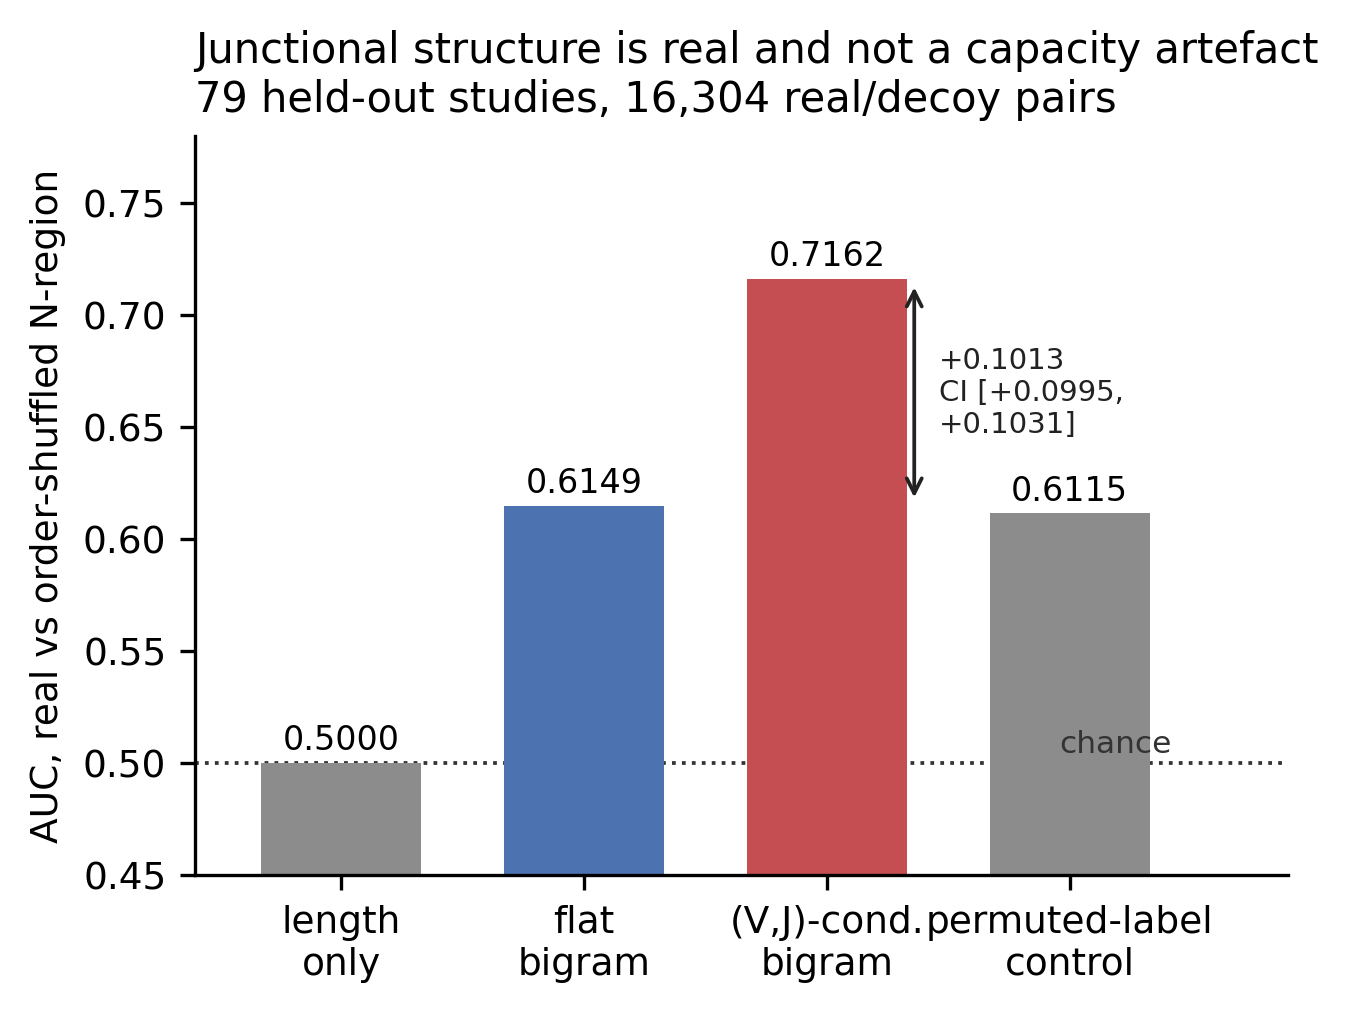
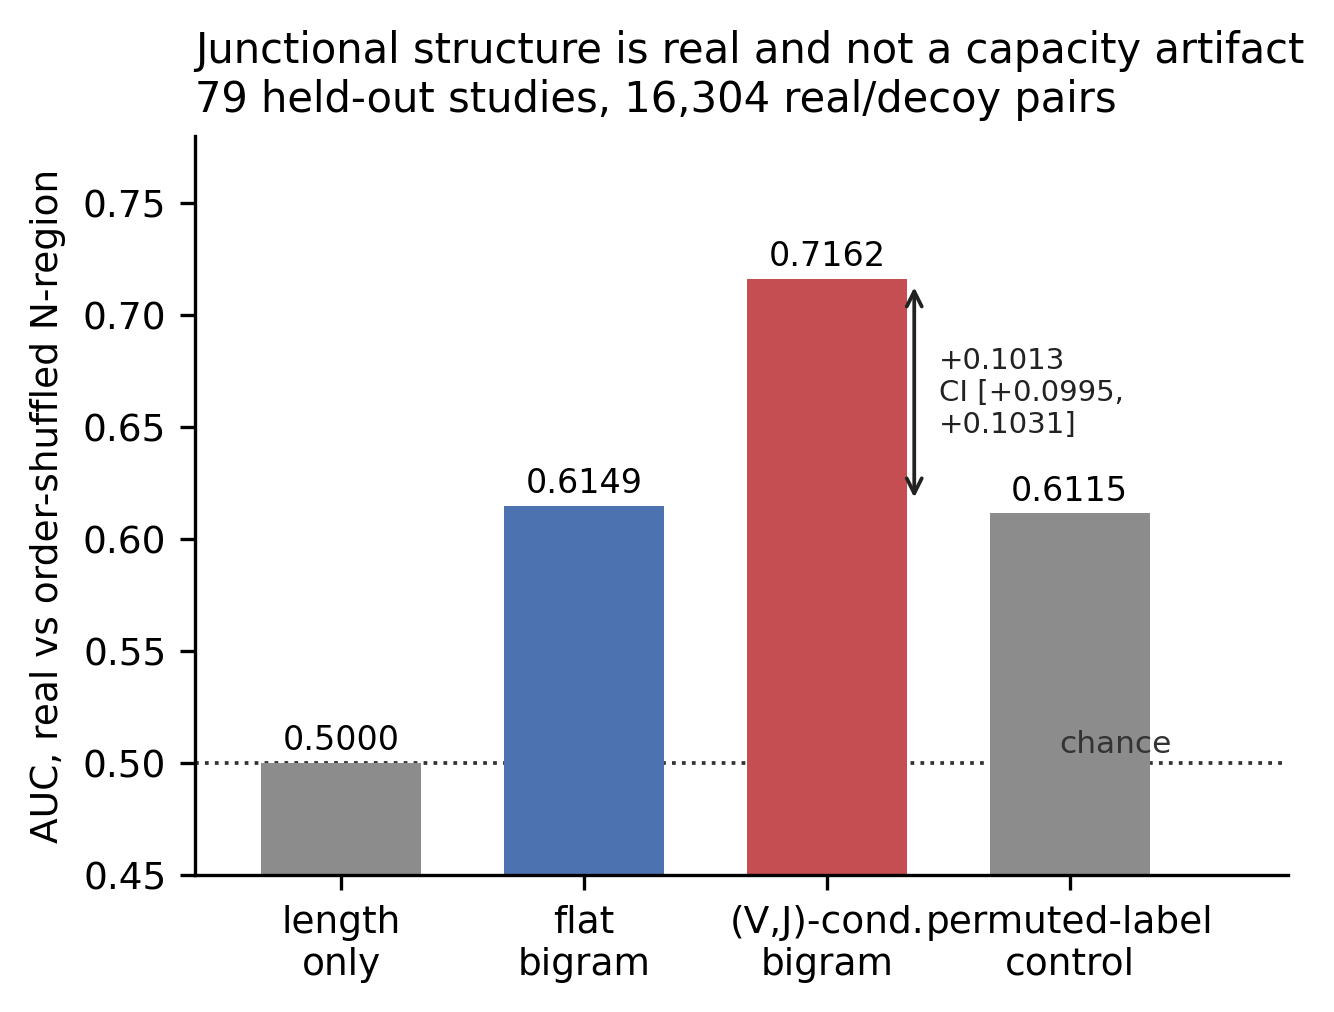
Standardize spelling; add plain-language guide to the study and figures
Spelling was mixed across the repo: artefact/artifact, characteris-/characteriz-,
analyse/analyze, plus British standardis-/normalis- forms in code comments. One
instance was baked into Figure 2's rendered title ("capacity artefact"), where a
proof-stage find-and-replace could not have reached it. Standardized to US forms
throughout our own files (vdjdb-db and the IMMREP23 README are external and left
alone) and regenerated all figures. Note the rewrite touched a local variable in
goi_core.auc (labelled -> labeled); all scripts recompile and the AUC sanity
check is unchanged.

Adds paper/plain-language-guide.md: a non-technical walkthrough explaining the
problem, the linguistic hypothesis, what each of the six figures shows, what was
concluded, and why a negative result is worth publishing. Written for a reader
with no immunology or machine-learning background — the word/prefix-suffix
analogy carries the receptor structure, STRESSED/DESSERTS carries the shuffling
control, and each figure gets a section explaining both what it shows and why it
matters. Includes the three counting and control errors we made and corrected,
since those are the transferable lessons.

diff --git a/goi_core.py b/goi_core.py
@@ -102,7 +102,7 @@ def dedup_clonotypes(rows):
     Collapse to unique (cdr3, v, j, epitope). VDJdb carries the same clonotype
     from multiple studies; counting rows inflates every downstream frequency.
     The row multiplicity is kept as 'n_rows' so it can be used as a weight,
-    but analyses should default to one vote per clonotype. 'studies' retains
+    but analyzes should default to one vote per clonotype. 'studies' retains
     the set of contributing studies, which is what makes cross-study
     replication testing possible.
     """
@@ -342,19 +342,19 @@ def benjamini_hochberg(pvals):
 
 def auc(scores_pos, scores_neg):
     """Mann-Whitney U / ROC AUC with tie handling."""
-    labelled = [(s, 1) for s in scores_pos] + [(s, 0) for s in scores_neg]
-    labelled.sort(key=lambda t: t[0])
+    labeled = [(s, 1) for s in scores_pos] + [(s, 0) for s in scores_neg]
+    labeled.sort(key=lambda t: t[0])
     ranks = {}
     i = 0
-    n = len(labelled)
+    n = len(labeled)
     rank_sum_pos = 0.0
     while i < n:
         j = i
-        while j + 1 < n and labelled[j + 1][0] == labelled[i][0]:
+        while j + 1 < n and labeled[j + 1][0] == labeled[i][0]:
             j += 1
         avg_rank = (i + j) / 2.0 + 1.0
         for k in range(i, j + 1):
-            if labelled[k][1] == 1:
+            if labeled[k][1] == 1:
                 rank_sum_pos += avg_rank
         i = j + 1
     n_pos, n_neg = len(scores_pos), len(scores_neg)

diff --git a/benchmark_immrep23.py b/benchmark_immrep23.py
@@ -11,8 +11,8 @@ Data (from https://github.com/justin-barton/IMMREP23):
   solutions.csv           official test set WITH labels and public/private flag
 
 Official metric: Macro AUC0.1 — partial ROC AUC to FPR 0.1 with McClish
-standardisation, computed per peptide, then averaged. Implemented via
-sklearn roc_auc_score(max_fpr=0.1), which is McClish-standardised.
+standardization, computed per peptide, then averaged. Implemented via
+sklearn roc_auc_score(max_fpr=0.1), which is McClish-standardized.
 
 Negative generation follows the challenge protocol: TCRs are swapped between
 peptides whose Levenshtein distance exceeds 3, at 5 negatives per positive.
@@ -78,7 +78,7 @@ def levenshtein(a, b):
 
 
 def norm_sim(a, b):
-    """Length-normalised similarity in [0,1] from edit distance."""
+    """Length-normalized similarity in [0,1] from edit distance."""
     if not a or not b:
         return 0.0
     return 1.0 - levenshtein(a, b) / max(len(a), len(b))

diff --git a/make_figures.py b/make_figures.py
@@ -143,7 +143,7 @@ def fig2_grammaticality():
     ax.text(2.46, 0.6655, '+0.1013\nCI [+0.0995,\n+0.1031]', fontsize=7,
             ha='left', va='center', color='#222222')
     ax.set_xlim(-0.6, 3.9)
-    ax.set_title('Junctional structure is real and not a capacity artefact\n'
+    ax.set_title('Junctional structure is real and not a capacity artifact\n'
                  '79 held-out studies, 16,304 real/decoy pairs', loc='left')
     save(fig, 'fig2_grammaticality.png')
 

diff --git a/phase3_unseen_epitope.py b/phase3_unseen_epitope.py
@@ -385,7 +385,7 @@ def main():
     print(f"\n   morpheme - kmer3 across seeds: {m_d:+.4f} +/- {sd_d:.4f}")
     print(f"   pooled per-epitope bootstrap 95% CI: [{lo:+.4f}, {hi:+.4f}]")
     n_pos = sum(1 for d in deltas if d > 0)
-    print(f"   seeds favouring morpheme: {n_pos}/{len(deltas)}")
+    print(f"   seeds favoring morpheme: {n_pos}/{len(deltas)}")
 
     rule('-')
     print("VERDICT")

diff --git a/paper/plain-language-guide.md b/paper/plain-language-guide.md
@@ -1,0 +1,226 @@
+# The Grammar of Immunity — Plain Language Guide
+
+A non-technical walkthrough of what this study asked, what we did, what the six
+figures show, and what we actually found.
+
+---
+
+## The problem in one paragraph
+
+Your immune system has to recognize germs it has never met — including ones that
+don't exist yet. It solves this by manufacturing billions of different detectors
+called **T-cell receptors**, each one shaped to grab a specific fragment of a
+germ. If we could look at a receptor and predict *which* germ it grabs, we could
+read someone's immune history from a blood sample, design vaccines faster, and
+tell which cancer patients will respond to which treatment. Nobody can do this
+reliably. Computer models get roughly nowhere when the target germ is one they
+weren't trained on — which is exactly the situation in a new pandemic.
+
+## The idea we tested
+
+Receptors are built the way words are built.
+
+Your body assembles each receptor from a small inventory of interchangeable
+parts: a beginning piece, an end piece, and a randomly generated middle that
+glues them together. That's very close to how words work in a language — a
+prefix, a root, a suffix. English does this too: *un-* + *happy* + *-ness*.
+
+A Nobel Prize winner named Niels Jerne noticed this in 1984 and titled his Nobel
+lecture "The Generative Grammar of the Immune System." He proposed the idea but
+never worked it out. In 2024 a team of linguists and immunologists revisited it
+and argued that today's AI models fail at this problem because they chop receptor
+sequences into meaningless chunks, ignoring the natural seams where the parts
+join. They said someone should build a model that respects those seams. They
+didn't build it.
+
+**This study built it and tested it.**
+
+The specific bet: if you cut receptor sequences at their natural joints — the way
+you'd split *unhappiness* into *un-happy-ness* rather than into *unh-app-ine-ss*
+— the model should learn something general about how receptors work, and
+therefore handle germs it has never seen.
+
+---
+
+## What the pictures show
+
+### Figure 1 — What "cutting at the seams" means
+
+Five real receptor sequences, each shown as a row of letters (letters are amino
+acids, the building blocks of proteins). Each row is colored in three parts:
+
+- **Blue** — the beginning piece, inherited from your genes. Nearly identical in
+  everyone.
+- **Red** — the random middle. This is where each person's receptors differ, and
+  it's the part that mostly decides what the receptor grabs.
+- **Green** — the end piece, also inherited.
+
+The point: what looks like one long meaningless string is really three
+meaningfully different regions. Most computer models never make this distinction.
+This figure is what our method does before anything else happens.
+
+### Figure 2 — Yes, there is real structure in the random middle
+
+We asked a simple question: is the "random" middle actually random?
+
+Test: take a real middle region and shuffle its letters, like scrambling
+*STRESSED* into *DESSERTS*. Same letters, same length, different order. Then see
+if a model can tell the real one from the scrambled one. If it can, the order
+carries information — the middles follow rules.
+
+Four bars:
+
+- **Gray, 0.50** — a deliberately useless model that only looks at length. It
+  scores exactly 50%, i.e. pure coin-flip. This is a check that our test is
+  honest: since shuffling doesn't change length, this model *must* fail, and it
+  does, exactly.
+- **Blue, 0.61** — a model that looks at letter order. Better than a coin flip.
+  So the middles are not random.
+- **Red, 0.72** — the same model, but told which inherited beginning and end
+  pieces the receptor uses. Considerably better. Context matters.
+- **Gray, 0.61** — the critical control. Same model, same complexity, but we
+  *lied* to it about which pieces the receptor uses. Its advantage vanishes.
+
+That last bar matters more than it looks. Bigger models often score better just
+by being bigger. By feeding it scrambled information and watching the gain
+disappear, we proved the improvement comes from real biology, not from the model
+being fancier.
+
+**Verdict: the linguistic structure is real and measurable.** So far, the idea is
+working.
+
+### Figure 3 — And it doesn't help at all where it counts
+
+This is the important figure, and it's where the idea fails.
+
+We tested on an official public competition dataset, using the competition's own
+scoring rules, so we couldn't grade our own homework. The test contains 20 germ
+fragments. Thirteen appear in the training data; **seven do not**.
+
+Each method gets two bars: **solid** for the familiar targets, **striped** for
+the unfamiliar ones.
+
+Look at the solid bars — everything works reasonably. Look at the striped bars —
+every single one collapses onto the coin-flip line. Including ours. Including
+methods better than ours.
+
+Cutting at the natural seams helps for germs the model has already studied. For
+new germs, it buys nothing. And that's the only case anyone actually needs.
+
+There's a subtle detail: two of the methods score *exactly* 50% on the unfamiliar
+targets. That's not bad luck. Those methods work by looking up the most similar
+receptor they've seen before, so when a germ is genuinely new they have nothing
+to look up and simply shrug. They're not tuned badly — they're structurally
+incapable of the task.
+
+### Figure 4 — Our one positive result turned out to be about data volume
+
+We did find one real improvement: cutting at the seams beat naive chopping, for
+familiar germs. Figure 4 asks whether that holds up.
+
+Four bars, four ways of building the training set. The first two (red, positive)
+used the full training data. The last two (gray, essentially zero) used about
+*half* as much data.
+
+Our first interpretation was that the harder test conditions killed the
+advantage. The fourth bar exists to check that, and it disproves it: it has the
+same reduced amount of data but easy conditions restored, and the advantage is
+still gone.
+
+So the improvement wasn't really about our clever cutting. It was about having
+enough data. With plenty, the method looks better; with half, it doesn't. That's
+a very different claim, and an honest paper has to make the smaller one.
+
+There's a hopeful reading too: an effect that appears between "half" and "full"
+might keep growing with far more data than we had.
+
+### Figure 5 — A trap that catches a lot of published research
+
+Early on we found what looked like a strong discovery: receptors targeting the
+Epstein-Barr virus contained an unusual chemical building block (cysteine) far
+more often than receptors targeting other viruses. It looked like a signature.
+
+**Left panel:** where the data came from. For flu, no single laboratory
+contributed more than about a third. For Epstein-Barr, **one laboratory
+contributed 80%**.
+
+**Right panel:** the "signature." Nearly 11% for Epstein-Barr versus under 1%
+elsewhere.
+
+Those two panels together explain the finding away. We weren't detecting the
+virus. We were detecting one laboratory's equipment, methods, and habits. In
+public databases of this kind, "which virus" and "which lab" are often the same
+question, and a real-looking discovery can be nothing but the lab's fingerprint.
+
+We had already written that finding up as a headline result. It's now in the
+paper as a warning instead.
+
+### Figure 6 — How we counted wrong, and the fix
+
+**Left panel (note the sideways-stretched scale):** one particular receptor
+sequence appears **1,077 times** in the database — but those are 1,077 database
+entries describing what is really *one* receptor, reported over and over by
+different studies. Counting entries instead of distinct receptors overstates how
+common it is by a thousandfold.
+
+We made exactly this mistake. A number in an early draft said "1,147 receptors"
+when it should have said "database entries, mostly duplicates of one receptor."
+We caught it only when we tried to draw this picture and the numbers came out
+absurdly small.
+
+**Right panel:** the same finding, counted properly. Flu-targeting receptors
+really do share a distinctive pattern — 41% use the same inherited beginning
+piece, and 13% carry a particular two-letter sequence in the middle, versus a few
+percent for the other viruses.
+
+Here's the thing, though: **this was published in 1998.** Our method rediscovered
+a 28-year-old finding. That's genuinely good news — it shows the method sees real
+biology — but it isn't a discovery, and we say so plainly.
+
+---
+
+## What we concluded
+
+1. **The linguistic structure is real.** Receptor middles follow rules, and those
+   rules depend on which inherited pieces they're attached to. This is solidly
+   demonstrated, with the controls to back it.
+
+2. **It doesn't transfer to new germs.** Nothing we or anyone else tried performs
+   better than a coin flip on unfamiliar targets.
+
+3. **What little advantage exists is mostly explained by something simpler.**
+   Just knowing which inherited pieces a receptor uses — no clever analysis of
+   the random middle at all — performs about as well as our full method. The
+   creative middle, which is the whole point of the linguistic idea, adds very
+   little.
+
+4. **We think the problem is on the other side.** Everything here describes the
+   *receptor*. But nothing about a receptor tells you how a brand-new germ
+   fragment maps onto the receptors that will catch it. We were carefully
+   optimizing the half of the problem that isn't broken. The better question is
+   what makes a germ fragment recognizable in the first place.
+
+## Why publishing this is worth doing
+
+It's a negative result, and negative results with proper controls are
+scarce and useful. Specifically, it saves other people from spending a year on
+the same reasonable-sounding idea, and it carries three warnings that apply well
+beyond this project:
+
+- Count distinct things, not database rows.
+- Check whether your discovery is just one laboratory.
+- Test at more than one data size, or you can't tell a better method from a
+  hungrier one.
+
+Every claim here comes with the code that produces it, runs on a laptop in a few
+minutes, and needs no special software.
+
+## An honest note on how this went
+
+Three separate times, a number that favored our idea turned out to be wrong when
+checked more carefully — once from re-running with a different random starting
+point, once from drawing a picture of it, once from adding a control. Each time
+the corrected number was less exciting.
+
+That's the normal shape of doing this properly. The results that survive that
+kind of checking are the ones worth putting your name on.

diff --git a/paper/manuscript.md b/paper/manuscript.md
@@ -81,7 +81,7 @@ swapped between peptides whose Levenshtein distance exceeds 3, at five negatives
 per positive, yielding 67,872 training pairs.
 
 Scoring used the official metric, Macro AUC0.1: per-peptide partial ROC AUC to a
-false-positive rate of 0.1 with McClish standardisation, averaged across
+false-positive rate of 0.1 with McClish standardization, averaged across
 peptides. We verified the implementation against the challenge documentation,
 which states that an all-zero submission scores 0.5; ours scores 0.5000 exactly.
 
@@ -113,7 +113,7 @@ only difference.
 
 Enrichment used Fisher's exact test with Benjamini–Hochberg FDR control and a minimum count of 20, replacing an earlier pseudocount ratio. AUC was computed via the Mann–Whitney U statistic with tie handling. Confidence intervals are paired bootstrap (200 resamples for model comparison, 2,000 for per-epitope deltas).
 
-All analyses are implemented in Python standard library only, with no external dependencies, and are deterministic given a fixed seed (stable CRC32 hashing rather than Python's randomized `hash`). Code: `https://github.com/etejkowski/grammar-of-immunity`, commit `d4bf7fb`. Runtime is approximately six minutes on a 2026 laptop (Python 3.9.6, macOS 14.8.4, arm64).
+All analyzes are implemented in Python standard library only, with no external dependencies, and are deterministic given a fixed seed (stable CRC32 hashing rather than Python's randomized `hash`). Code: `https://github.com/etejkowski/grammar-of-immunity`, commit `d4bf7fb`. Runtime is approximately six minutes on a 2026 laptop (Python 3.9.6, macOS 14.8.4, arm64).
 
 ## 3. Results
 
@@ -138,7 +138,7 @@ clonotype (Figure 6A). Counting rows produces motif frequencies inflated by
 three orders of magnitude for the most redundant sequences, and an earlier
 version of this analysis reported such counts as clonotype counts. After
 deduplication no individual N-region exceeds nine clonotypes, so the motif is
-properly characterised as a distributed family — `RS` at the core with variable
+properly characterized as a distributed family — `RS` at the core with variable
 flanks — rather than as a small set of frequent strings.
 
 This reproduces a result published in 1998, which reported the influenza M1
@@ -246,7 +246,7 @@ We emphasize what this work does not show. It does not show that grammar-aware m
 4. **β chain only.** No α chain, and MHC enters only as an epitope-associated token, though MHC restriction is known to matter.
 5. **Empirical anchors are not IMGT.** The consensus procedure could in principle absorb convergent junctional residues into a germline anchor; reference agreement (28/29) and the ≥0.80 threshold mitigate but do not eliminate this.
 6. **Twenty epitopes, capped at 800 clonotypes.** Larger scale might reveal a small transferable effect that our confidence intervals cannot exclude.
-7. **Data scale is not swept systematically.** §3.7 establishes that the morpheme-vs-k-mer advantage is size dependent using two training sizes (~68k and ~29k pairs). A proper learning-curve analysis across several sizes would characterise this rather than merely detect it.
+7. **Data scale is not swept systematically.** §3.7 establishes that the morpheme-vs-k-mer advantage is size dependent using two training sizes (~68k and ~29k pairs). A proper learning-curve analysis across several sizes would characterize this rather than merely detect it.
 
 ## 6. Conclusion
 
@@ -300,7 +300,7 @@ negative-generation schemes. The `matched` scheme has the same training size as
 `hard` but dissimilar decoys, isolating training-set size as the cause.
 
 **Figure 5** (`fig5_batch_effect.png`). Left, share of clonotypes contributed by
-the single largest study per epitope. Right, the resulting artefact: cysteine
+the single largest study per epitope. Right, the resulting artifact: cysteine
 frequency in N-regions.
 
 **Figure 6** (`fig6_motif_paradigm.png`). A, database redundancy — CASSIRSSYEQYF

diff --git a/README.md b/README.md
@@ -92,7 +92,7 @@ Two conclusions survive every scheme:
 `benchmark_immrep23.py` repeats the test on community data — the official
 IMMREP23 challenge training set and test set with released labels, scored with
 the official metric (Macro AUC0.1, per-peptide partial ROC AUC to FPR 0.1 with
-McClish standardisation). Negatives follow the challenge protocol (TCR swapping
+McClish standardization). Negatives follow the challenge protocol (TCR swapping
 between peptides at Levenshtein > 3, 5 per positive). The all-zero submission
 scores exactly 0.5000, matching the challenge README, confirming the metric
 implementation.
@@ -236,6 +236,8 @@ Generated by `make_figures.py` into `paper/figures/` (requires matplotlib):
 
 ## Files
 
+- `paper/plain-language-guide.md` — **non-technical walkthrough of the study and all six figures** (start here)
+- `paper/manuscript.md` — full manuscript draft
 - `grammar-of-immunity-research.md` — research plan, literature review, 90-day roadmap
 - `goi_core.py` — data layer: loading, deduplication, empirical germline anchors, decomposition, Fisher/BH/AUC
 - `phase1_dataset.py` — builds the annotated dataset, runs enrichment with FDR and replication testing
